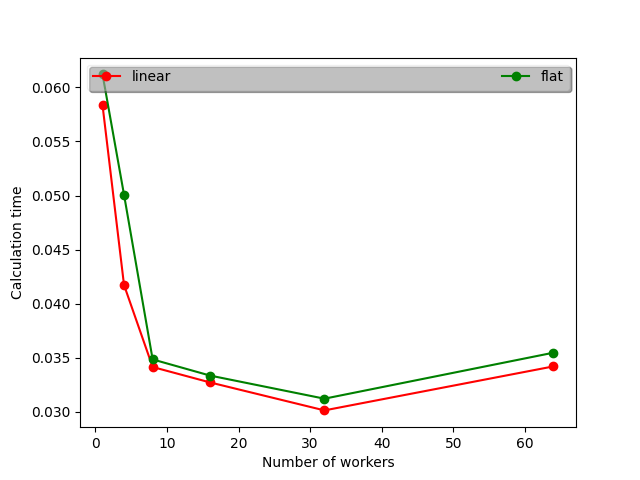
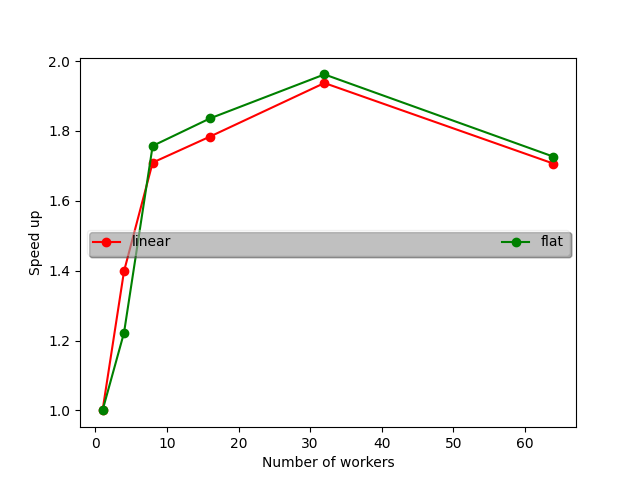
update plots to speed up

diff --git a/trace_plot.py b/trace_plot.py
@@ -34,15 +34,18 @@ def plot(w_num):
     dir_path = "result/100k/"
     for (dirpath, dirnames, filenames) in walk(dir_path):
         fs.extend(filenames)
+
     for f in fs:
         cats = f.split("&")
         hash_type = cats[0]
         m = int(cats[1].split("m")[0])
         w = int(cats[2].split("w")[0])
+
         if w == w_num:
             data[hash_type][0].append(m)
             val = read_file(dir_path + f)
             data[hash_type][1].append(val)
+
 
 
     plt.xlabel('Number of masters')
@@ -81,11 +84,12 @@ def plot2(m_num):
 
 
     plt.xlabel('Number of workers')
-    plt.ylabel('Calculation time')
+    plt.ylabel('Speed up')
 
     plot_line = ['ro-', 'go-']
     for idx, (k, v) in enumerate(data.items()):
         v = list(zip(*sorted(zip(v[0], v[1]))))
+        v[1] = [(v[1][0] / val) for val in v[1]]
         plt.plot(v[0], v[1], plot_line[idx], label=k)
 
     leg = plt.legend(loc='best', ncol=2, mode="expand", shadow=True, fancybox=True)
